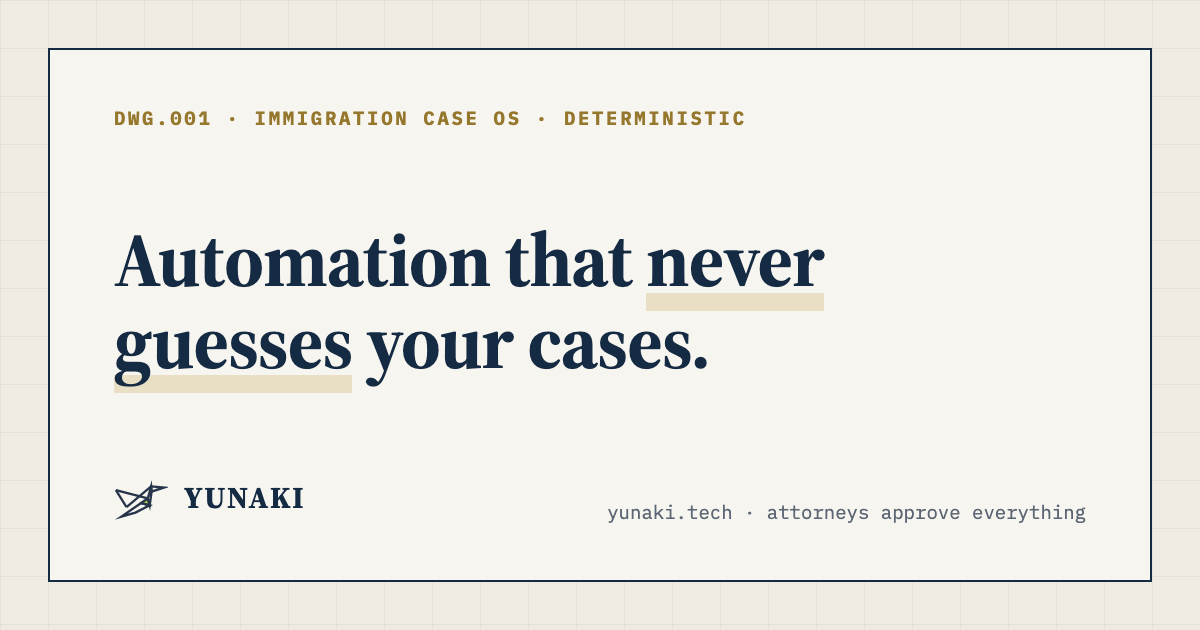
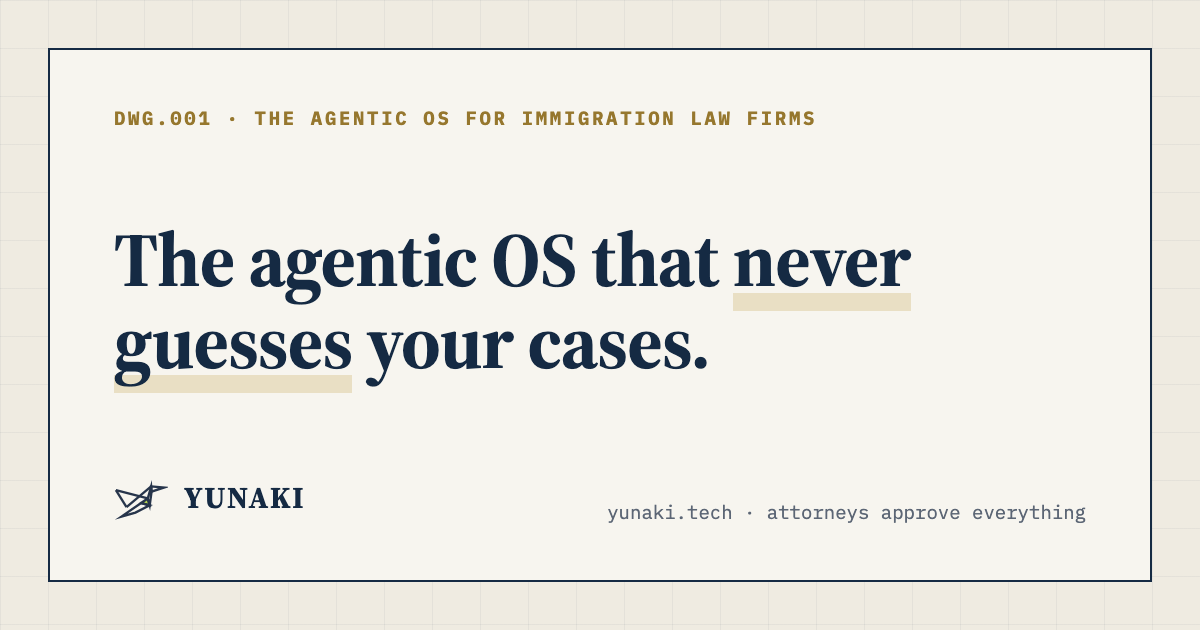
feat: reposition as the agentic OS for law firms
'Automation' out of the identity everywhere: brand tag on all pages,
hero H1 ('The agentic OS that never guesses your cases'), titles, OG and
Twitter meta, JSON-LD, practice-areas heading ('One OS'), README, and a
regenerated OG card. Hero lead now sells the smooth end-to-end run:
intake, documents, checks, follow-ups — first call to filing.

Changed region(s): [[0.0925, 0.3619, 0.7708, 0.5127], [0.2158, 0.1508, 0.6783, 0.2111]]

diff --git a/index.html b/index.html
@@ -3,18 +3,18 @@
 <head>
 <meta charset="UTF-8">
 <meta name="viewport" content="width=device-width, initial-scale=1.0">
-<title>Yunaki — AI case OS for immigration law firms</title>
-<meta name="description" content="Yunaki handles client intake, reads documents, and catches missing or conflicting information for immigration law firms. AI drafts, attorneys approve — Yunaki never files anything.">
+<title>Yunaki — the agentic OS for immigration law firms</title>
+<meta name="description" content="Yunaki is the agentic OS for immigration law firms: it runs intake, reads the documents, checks every case, and drafts the follow-ups — so the work moves smoothly. You approve everything. Yunaki never files.">
 <link rel="canonical" href="https://yunaki.tech/">
 <meta property="og:type" content="website">
 <meta property="og:site_name" content="Yunaki">
-<meta property="og:title" content="Yunaki — AI case OS for immigration law firms">
-<meta property="og:description" content="Automation that never guesses your cases. Client intake, document reading, and case checks for immigration firms. You approve everything — Yunaki never files.">
+<meta property="og:title" content="Yunaki — the agentic OS for immigration law firms">
+<meta property="og:description" content="The agentic OS that never guesses your cases. Intake, document reading, case checks, and follow-ups for immigration firms. You approve everything — Yunaki never files.">
 <meta property="og:url" content="https://yunaki.tech/">
 <meta property="og:image" content="https://yunaki.tech/assets/og.png">
 <meta name="twitter:card" content="summary_large_image">
-<meta name="twitter:title" content="Yunaki — AI case OS for immigration law firms">
-<meta name="twitter:description" content="Automation that never guesses your cases. You approve everything — Yunaki never files.">
+<meta name="twitter:title" content="Yunaki — the agentic OS for immigration law firms">
+<meta name="twitter:description" content="The agentic OS that never guesses your cases. You approve everything — Yunaki never files.">
 <meta name="twitter:image" content="https://yunaki.tech/assets/og.png">
 <link rel="icon" type="image/svg+xml" href="favicon.svg">
 <link rel="apple-touch-icon" href="assets/apple-touch-icon.png">
@@ -29,7 +29,7 @@
   "name": "Yunaki",
   "url": "https://yunaki.tech/",
   "applicationCategory": "BusinessApplication",
-  "description": "Software for immigration law firms: client intake, document reading, and case checks. AI drafts, attorneys approve; Yunaki never files anything.",
+  "description": "The agentic operating system for immigration law firms: client intake, document reading, case checks, and drafted follow-ups. You approve everything; Yunaki never files.",
   "operatingSystem": "Web",
   "publisher": { "@type": "Organization", "name": "Yunaki", "url": "https://yunaki.tech/" }
 }
@@ -39,7 +39,7 @@
 <div class="frame">
 
   <header class="topbar">
-    <a class="brand" href="index.html">YUNAKI <span>/ law-firm automation</span></a>
+    <a class="brand" href="index.html">YUNAKI <span>/ the agentic OS for law firms</span></a>
     <nav class="topnav">
       <a href="how-it-works.html">How it works</a>
       <a href="case-files.html">Case files</a>
@@ -51,14 +51,14 @@
 
   <section class="hero">
     <div class="kicker">
-      <span>DWG.001 · IMMIGRATION CASE OS · DETERMINISTIC</span>
+      <span>DWG.001 · THE AGENTIC OS FOR LAW FIRMS</span>
       <span>|</span>
       <span class="live"><span class="dot"></span> PILOTS OPEN</span>
     </div>
-    <h1>Automation that <span class="hl">never</span> <span class="hl">guesses</span> your cases.</h1>
+    <h1>The agentic OS that <span class="hl">never</span> <span class="hl">guesses</span> your cases.</h1>
     <p class="lead">
-      Yunaki collects your client's information, reads their documents, and
-      tells you what's missing — built for immigration law firms.
+      Yunaki runs the whole case for immigration law firms — intake, documents,
+      checks, follow-ups — so the work moves smoothly from first call to filing.
       <strong>Facts, fees, and deadlines come from a deterministic engine.</strong>
       AI drafts. It never decides. And it never files — your attorneys do.
     </p>
@@ -263,7 +263,7 @@
 
   <section class="sec-pad" id="practices">
     <div class="seclabel">§04 · practice areas</div>
-    <h2>One engine. Every paperwork-heavy practice.</h2>
+    <h2>One OS. Every paperwork-heavy practice.</h2>
     <div class="prose">
       <p>Same failure pattern everywhere: high-volume forms, deterministic rules, brutal penalties for small errors.</p>
     </div>
@@ -324,7 +324,7 @@
         </ul>
       </div>
       <div class="practice-foot">
-        one engine: <strong>deterministic validation + firm memory.</strong>
+        one OS: <strong>deterministic checks + firm memory.</strong>
         a new practice area is a playbook away, not a new product.
       </div>
     </div>

diff --git a/case-files.html b/case-files.html
@@ -24,7 +24,7 @@
 <div class="frame">
 
   <header class="topbar">
-    <a class="brand" href="index.html">YUNAKI <span>/ law-firm automation</span></a>
+    <a class="brand" href="index.html">YUNAKI <span>/ the agentic OS for law firms</span></a>
     <nav class="topnav">
       <a href="how-it-works.html">How it works</a>
       <a href="case-files.html" class="active">Case files</a>

diff --git a/how-it-works.html b/how-it-works.html
@@ -24,7 +24,7 @@
 <div class="frame">
 
   <header class="topbar">
-    <a class="brand" href="index.html">YUNAKI <span>/ law-firm automation</span></a>
+    <a class="brand" href="index.html">YUNAKI <span>/ the agentic OS for law firms</span></a>
     <nav class="topnav">
       <a href="how-it-works.html" class="active">How it works</a>
       <a href="case-files.html">Case files</a>

diff --git a/contact.html b/contact.html
@@ -24,7 +24,7 @@
 <div class="frame">
 
   <header class="topbar">
-    <a class="brand" href="index.html">YUNAKI <span>/ law-firm automation</span></a>
+    <a class="brand" href="index.html">YUNAKI <span>/ the agentic OS for law firms</span></a>
     <nav class="topnav">
       <a href="how-it-works.html">How it works</a>
       <a href="case-files.html">Case files</a>

diff --git a/security.html b/security.html
@@ -24,7 +24,7 @@
 <div class="frame">
 
   <header class="topbar">
-    <a class="brand" href="index.html">YUNAKI <span>/ law-firm automation</span></a>
+    <a class="brand" href="index.html">YUNAKI <span>/ the agentic OS for law firms</span></a>
     <nav class="topnav">
       <a href="how-it-works.html">How it works</a>
       <a href="case-files.html">Case files</a>

diff --git a/404.html b/404.html
@@ -15,7 +15,7 @@
 <div class="frame">
 
   <header class="topbar">
-    <a class="brand" href="/">YUNAKI <span>/ law-firm automation</span></a>
+    <a class="brand" href="/">YUNAKI <span>/ the agentic OS for law firms</span></a>
     <nav class="topnav">
       <a href="/how-it-works.html">How it works</a>
       <a href="/case-files.html">Case files</a>

diff --git a/README.md b/README.md
@@ -1,6 +1,6 @@
 # Yunaki — marketing site
 
-Static marketing site for Yunaki (AI automation for law firms).
+Static marketing site for Yunaki (the agentic OS for law firms).
 Plain HTML and CSS, no build step. Deployed via GitHub Pages.
 
 ## Pages
